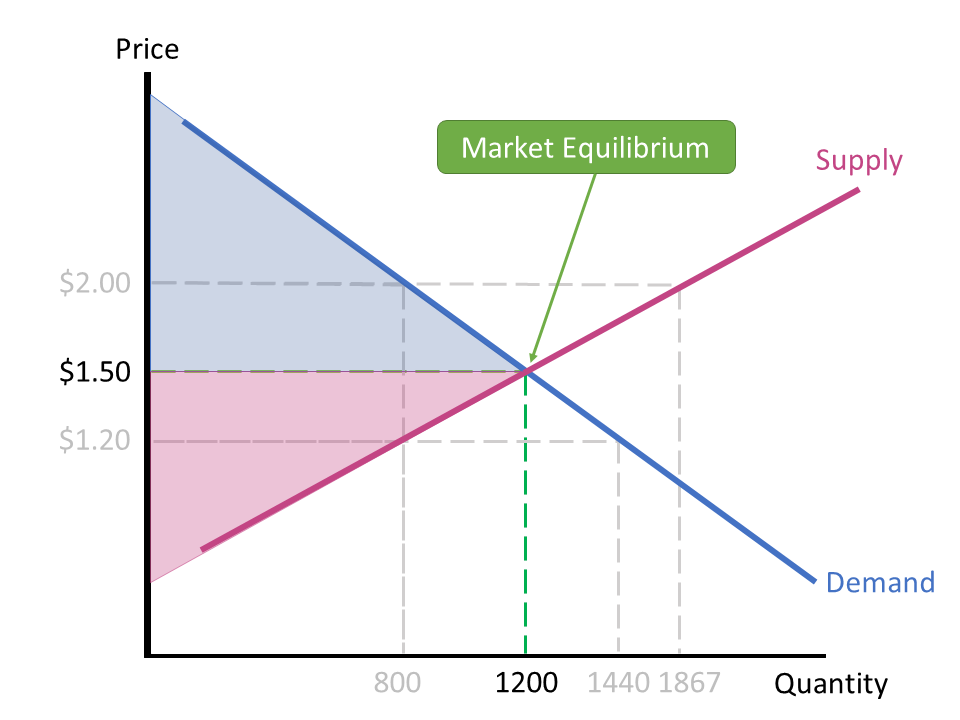
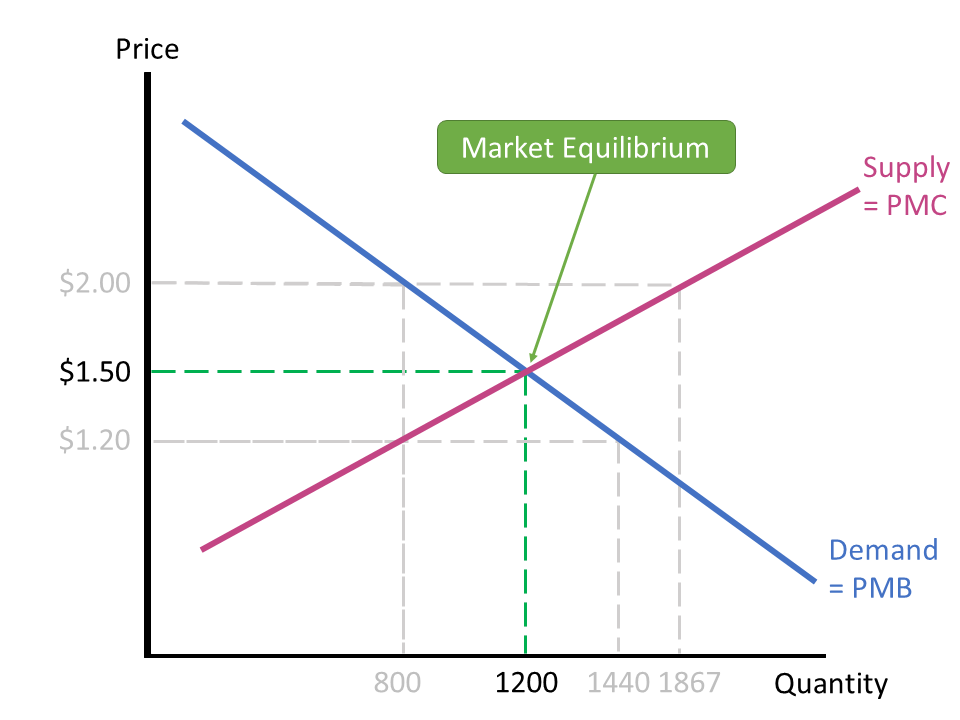
figures uploaded

Changed region(s): [[0.1562, 0.1222, 0.5625, 0.825], [0.8438, 0.7333, 1.0, 0.825], [0.8438, 0.2139, 1.0, 0.3056]]

diff --git a/teaching/EEDC/custom.css b/teaching/EEDC/custom.css
@@ -1,0 +1,90 @@
+/* Custom CSS for Development Policy Lectures */
+/* Place this file in the same folder as your .Rmd lecture files */
+
+/* Content boxes for highlighting key points */
+.content-box-green {
+  background-color: #d4edda;
+  border-left: 5px solid #28a745;
+  padding: 10px 15px;
+  border-radius: 5px;
+  margin: 10px 0;
+}
+
+.content-box-yellow {
+  background-color: #fff3cd;
+  border-left: 5px solid #ffc107;
+  padding: 10px 15px;
+  border-radius: 5px;
+  margin: 10px 0;
+}
+
+.content-box-blue {
+  background-color: #d1ecf1;
+  border-left: 5px solid #17a2b8;
+  padding: 10px 15px;
+  border-radius: 5px;
+  margin: 10px 0;
+}
+
+.content-box-red {
+  background-color: #f8d7da;
+  border-left: 5px solid #dc3545;
+  padding: 10px 15px;
+  border-radius: 5px;
+  margin: 10px 0;
+}
+
+/* Pull left and right for side-by-side content */
+.pull-left {
+  width: 45%;
+  margin-left: 2.5%;
+  float: left;
+}
+
+.pull-right {
+  width: 45%;
+  margin-right: 2.5%;
+  float: right;
+}
+
+/* Clear floats */
+.clear {
+  clear: both;
+}
+
+/* Small text for notes and sources */
+.small {
+  font-size: 0.8em;
+}
+
+/* Centered content */
+.center {
+  text-align: center;
+}
+
+/* Table styling improvements */
+table {
+  width: 100%;
+  border-collapse: collapse;
+  margin: 15px 0;
+}
+
+th, td {
+  padding: 8px 12px;
+  text-align: left;
+  border-bottom: 1px solid #ddd;
+}
+
+th {
+  background-color: #f5f5f5;
+  font-weight: bold;
+}
+
+/* Blockquote styling */
+blockquote {
+  border-left: 4px solid #6c757d;
+  padding-left: 15px;
+  margin: 15px 0;
+  font-style: italic;
+  color: #555;
+}

diff --git a/teaching/EEDC/EEDC_lecture1.html b/teaching/EEDC/EEDC_lecture1.html
@@ -60,8 +60,8 @@ Take 2 minutes to write down:
 
 
 &lt;style&gt;
-.pull-left { width: 60%; margin-left: 2.5%; }
-.pull-right { width: 60%; margin-right: 2.5%; }
+.pull-left { width: 70%; margin-left: 2.5%; }
+.pull-right { width: 30%; margin-right: 2.5%; }
 &lt;/style&gt;
 
 ---
@@ -845,8 +845,6 @@ We need some economic tools before diving into environmental topics.
 
 --
 
-&lt;br&gt;
-
 .content-box-blue[
 **Goal:** **Build intuition, not memorize formulas.** 
 
@@ -1377,10 +1375,8 @@ On the graph, producer surplus is the **area above the supply curve and below th
 **Total surplus** = Consumer surplus + Producer surplus
 
 &lt;div style="text-align: center; margin-top: 5px;"&gt;
-  &lt;img src="figures/Slide16.PNG" style="width: 45%;" /&gt;
+  &lt;img src="figures/Slide15_1.PNG" style="width: 50%;" /&gt;
 &lt;/div&gt;
-
---
 
 .center[
 Total surplus measures the **total gains from trade** in a market.
